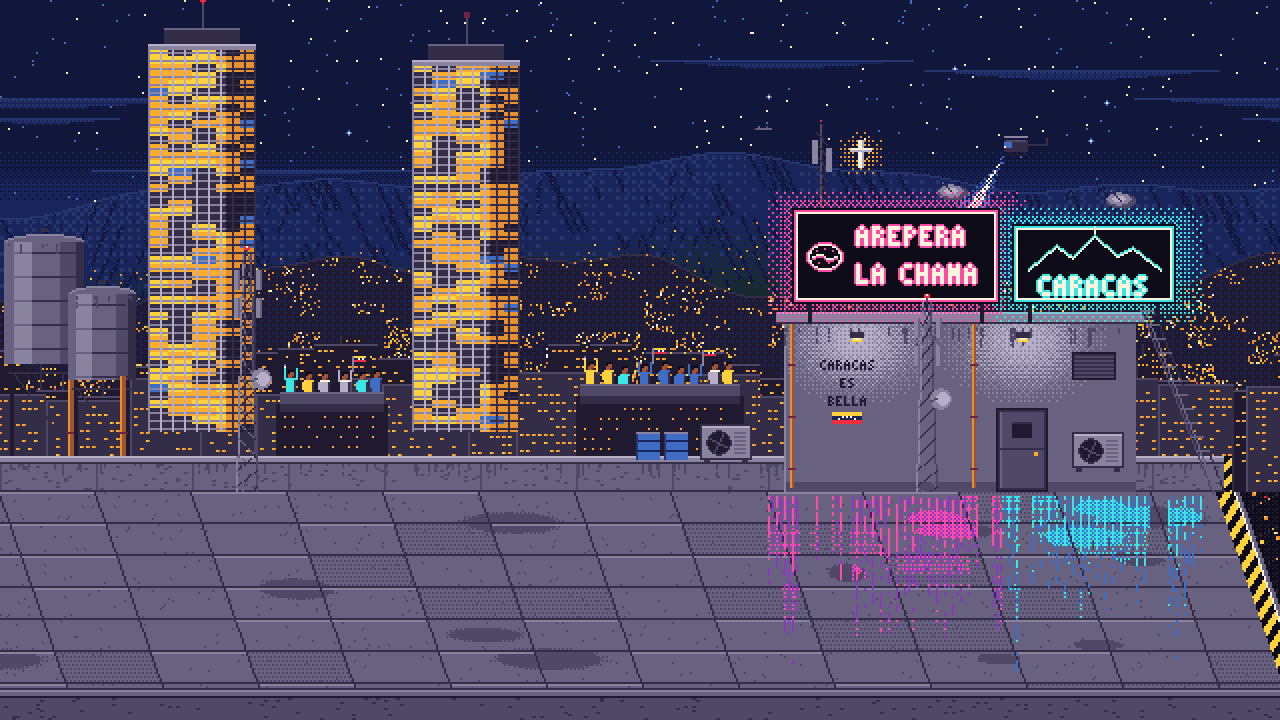
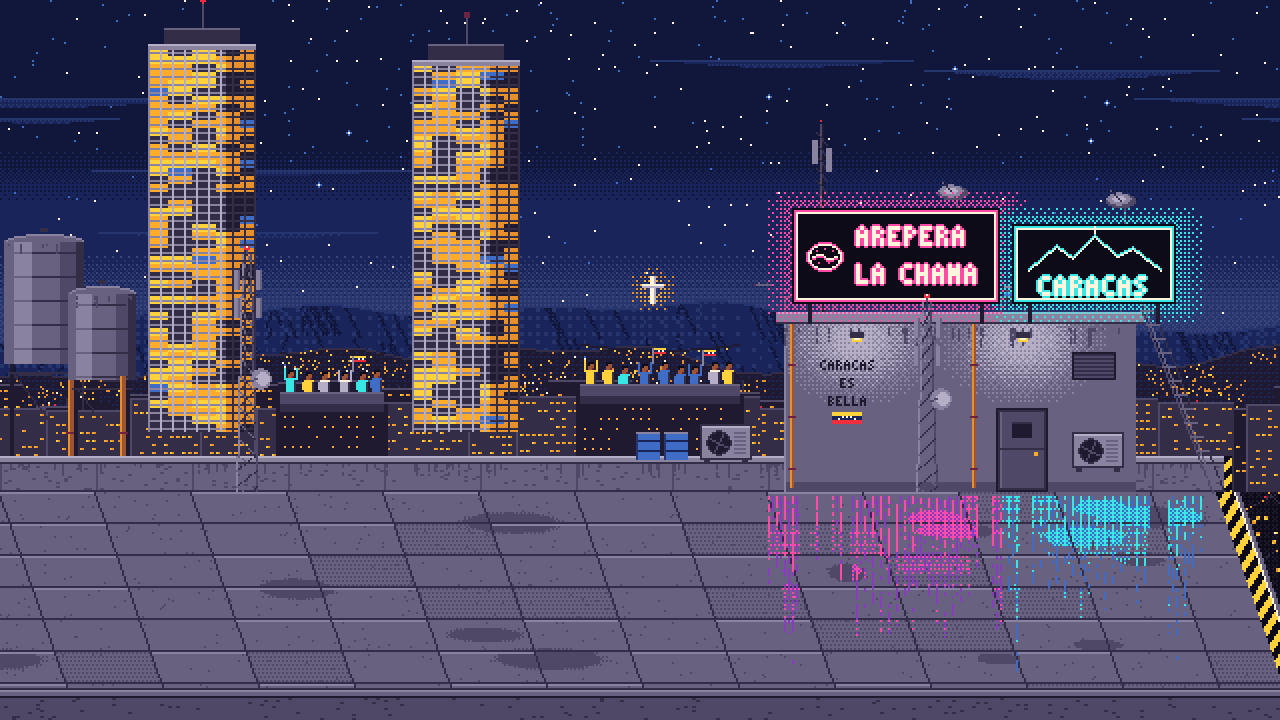
E3b: El Ávila más abajo para el zoom de la pelea y el vacío de 128
- La Cruz cae en la fila 138, entre la segunda torre y la caseta: con el zoom
  de la pelea la cámara empieza en la fila 93 y el marcador tapa 45 más
- Los cerros, el avión y el helicóptero bajan con El Ávila
- borde_vacio.png de 128 x 128 con las avenidas corridas y cortadas: no se
  ve la cuadrícula en un vacío ancho

Claude-Session: https://claude.ai/code/session_01JyeqgYaNCz4cU9RBqiqVkS

diff --git a/src/engine/world/oblique/caracas.ts b/src/engine/world/oblique/caracas.ts
@@ -19,7 +19,12 @@ import type { CtxCerca, PintorCerca } from './fachadas';
 // Lo lejos: El Ávila de noche
 
 /** Dónde está la Cruz en la capa lejos (x, y de la punta del pico). */
-export const CRUZ = { x: 430, y: 36 };
+/**
+ * La Cruz va baja en la capa: con el zoom de la pelea la cámara empieza en la fila 93 y el marcador tapa unas 45 más,
+ * así que la punta de la Cruz cae en la fila 135 de pantalla o más abajo (lejos va en la fila franja.atras - 200). En x
+ * va en el hueco entre la segunda torre y la caseta de los neones.
+ */
+export const CRUZ = { x: 326, y: 110 };
 
 /** El Ávila de noche: la montaña larga casi negra con las laderas de luna, la Cruz encendida, los cerros con lucecitas y la ciudad abajo. */
 export function avilaNoche(pal: Paleta, w: number, h: number, seed: number): Lienzo {
@@ -28,7 +33,7 @@ export function avilaNoche(pal: Paleta, w: number, h: number, seed: number): Lie
   const onda = (x: number, a: number[], f: number[], ph: number[]) => a.reduce((s, ai, i) => s + ai * Math.sin((x / w) * Math.PI * 2 * f[i] + ph[i]), 0);
   // el pico de la Cruz: una campana que también da la vuelta
   const pico = (x: number) => { const d = Math.min(Math.abs(x - CRUZ.x), w - Math.abs(x - CRUZ.x)); return 22 * Math.exp(-((d / 200) ** 2)); };
-  const cresta = (x: number) => Math.round(CRUZ.y + 20 + onda(x, [7, 4, 2], [2, 5, 13], [0.6 - (CRUZ.x / w) * Math.PI * 4, 2.1, 0.4]) - pico(x));
+  const cresta = (x: number) => Math.round(CRUZ.y + 16 + onda(x, [7, 4, 2], [2, 5, 13], [0.6 - (CRUZ.x / w) * Math.PI * 4, 2.1, 0.4]) - pico(x));
   for (let x = 0; x < w; x++) {
     const top = cresta(x), antes = cresta((x - 3 + w) % w);
     // la ladera que sube hacia la derecha mira a la luna (izquierda): más clara
@@ -40,7 +45,7 @@ export function avilaNoche(pal: Paleta, w: number, h: number, seed: number): Lie
       // la montaña de noche es azul casi negra; la luna la toca arriba y abajo el monte se pone verde oscuro
       let c: Color = y === top ? 'cielo' : veta ? 'azul_noche' : bayer(x >> 1, y >> 1) < luna * (1 - t) ? 'cielo' : t > 0.55 && bayer(x, y) < (t - 0.55) * 1.5 ? 'verde_oscuro' : 'azul';
       // el pie del Ávila se pierde en el resplandor de la ciudad
-      if (y > 100 && bayer(x, y) < (y - 100) / 40) c = 'bruma';
+      if (y > 150 && bayer(x, y) < (y - 150) / 24) c = 'bruma';
       L.p(x, y, c);
     }
     // casitas encendidas en las faldas del Ávila, pocas
@@ -56,7 +61,7 @@ export function avilaNoche(pal: Paleta, w: number, h: number, seed: number): Lie
   L.f(CRUZ.x - 5, cy - 10, 11, 2, 'luz'); L.hl(CRUZ.x - 5, cy - 9, 11, 'crema');
   // los cerros de adelante: barrios llenos de lucecitas, en manchones
   for (let x = 0; x < w; x++) {
-    const top = Math.round(92 + onda(x, [10, 6, 3], [3, 7, 17], [1.3, 0.2, 2.6]));
+    const top = Math.round(134 + onda(x, [6, 4, 2], [3, 7, 17], [1.3, 0.2, 2.6]));
     for (let y = top; y < h; y++) {
       L.p(x, y, y === top ? 'asfalto' : bayer(x, y) < 0.2 ? 'azul' : 'sombra');
       const barrio = grain(x >> 4, y >> 3, seed + 11) < 0.55;
@@ -66,7 +71,7 @@ export function avilaNoche(pal: Paleta, w: number, h: number, seed: number): Lie
   // la ciudad abajo: edificios con ventanas prendidas
   const R = rng(seed + 20);
   for (let n = 0; n < 70; n++) {
-    const x = Math.floor(R() * w), bw = 5 + Math.floor(R() * 9), bh = 8 + Math.floor(R() * 22), gy = 150 + Math.floor(R() * 8);
+    const x = Math.floor(R() * w), bw = 5 + Math.floor(R() * 9), bh = 6 + Math.floor(R() * 14), gy = 160 + Math.floor(R() * 6);
     for (let i = 0; i < bw; i++) { const X = (x + i) % w; for (let y = gy - bh; y < h; y++) L.p(X, y, i === 0 ? 'asfalto' : 'sombra'); }
     for (let y = gy - bh + 2; y < h - 1; y += 3) for (let i = 1; i < bw - 1; i += 2) if (R() < 0.5) L.p((x + i) % w, y, R() < 0.7 ? 'oro' : 'amarillo');
   }
@@ -113,7 +118,7 @@ function torrePC(C: Lienzo, x: number, w: number, top: number, base: number, see
 function ciudad(C: Lienzo, x0: number, x1: number, base: number, seed: number) {
   const R = rng(seed + 31);
   // dos bandas: la de atrás, más alta y más oscura, y la de adelante
-  for (const [banda, alto, cuerpo] of [[0, 30, 'sombra'], [1, 18, 'asfalto']] as [number, number, Color][]) {
+  for (const [banda, alto, cuerpo] of [[0, 18, 'sombra'], [1, 10, 'asfalto']] as [number, number, Color][]) {
     for (let x = -30; x < x1 + 30;) {
       const w = 16 + Math.floor(R() * 34), h = alto * 0.5 + Math.floor(R() * alto), top = base - 30 - banda * 4 - Math.round(h);
       if (x + w > x0) {
@@ -383,19 +388,23 @@ export function bordeAlVacio(P: Lienzo, x0: number, D: number, k: number, s: num
   }
 }
 
-/** La ciudad allá abajo, vista desde el borde: manzanas oscuras, calles encendidas y lucecitas. Se repite cada 64 x 64. */
+/**
+ * La ciudad allá abajo, vista desde el borde: manzanas oscuras, avenidas encendidas y lucecitas. Se repite cada 128 x 128,
+ * con las avenidas corridas por tramos y cortadas a ratos, para que no se lea la cuadrícula en un vacío ancho.
+ */
 export function vacioEn(c: number, y: number, s: number): Color {
-  const X = ((c % 64) + 64) % 64, Y = ((y % 64) + 64) % 64;
-  // las avenidas en diagonal, con los faroles, y unas ventanitas sueltas en las manzanas
-  if ((X + Y * 2) % 32 === 0 || (X - Y + 64) % 64 === 0) return grain(X >> 1, Y, s) < 0.3 ? 'oro' : 'asfalto';
+  const X = ((c % 128) + 128) % 128, Y = ((y % 128) + 128) % 128;
+  const off = Math.floor(grain(Y >> 4, 0, s + 5) * 9), off2 = Math.floor(grain(X >> 4, 1, s + 6) * 7);
+  const avenida = (X + Y * 2 + off) % 64 === 0 || (X - Y + 128 + off2) % 128 === 0;
+  if (avenida && grain(X >> 3, Y >> 3, s + 4) > 0.3) return grain(X >> 1, Y, s) < 0.3 ? 'oro' : 'asfalto';
   if (grain(X >> 1, Y >> 1, s + 1) < 0.03) return grain(X, Y, s + 2) < 0.6 ? 'ocre' : 'amarillo';
   return bayer(X, Y) < 0.3 ? 'sombra' : 'tinta';
 }
 
-/** La textura del vacío para el juego: 64 x 64, se repite (para pintar lo que se cae cuando el borde avanza). */
+/** La textura del vacío para el juego: 128 x 128, se repite (para pintar lo que se cae cuando el borde avanza). */
 export function vacioTextura(pal: Paleta, s: number): Lienzo {
-  const L = new Lienzo(64, 64, pal);
-  for (let y = 0; y < 64; y++) for (let x = 0; x < 64; x++) L.p(x, y, vacioEn(x, y, s));
+  const L = new Lienzo(128, 128, pal);
+  for (let y = 0; y < 128; y++) for (let x = 0; x < 128; x++) L.p(x, y, vacioEn(x, y, s));
   return L;
 }
 

diff --git a/src/engine/__tests__/caracas.test.ts b/src/engine/__tests__/caracas.test.ts
@@ -46,12 +46,12 @@ describe('la azotea de Caracas (lote E3b)', () => {
     expect(c.detalle).toMatch(/se llega a \d+ de \d+ celdas/);
   });
 
-  it('El Ávila con la Cruz encendida queda debajo de la franja del marcador (filas 28 a 60)', () => {
+  it('la Cruz del Ávila cae en la fila 135 o más abajo: con el zoom de la pelea se ve debajo del marcador', () => {
     const yLejos = FT - 30 - E.lejos.h;
     let arriba = Infinity;
     for (let y = 0; y < E.lejos.h; y++) for (let x = CRUZ.x - 6; x <= CRUZ.x + 6; x++) if (es(E.lejos.r, x, y, 'luz')) arriba = Math.min(arriba, y);
     expect(arriba).toBeLessThan(Infinity);
-    expect(yLejos + arriba).toBeGreaterThanOrEqual(64);
+    expect(yLejos + arriba).toBeGreaterThanOrEqual(135);
   });
 
   it('el piso mojado refleja los neones debajo de su columna, y nada más', () => {
@@ -74,14 +74,14 @@ describe('la azotea de Caracas (lote E3b)', () => {
       const despues = hex(P, h.x0 + Math.round(0.35 * y) + 6, y)!;
       expect([VENEZUELA_NOCHE.tinta, VENEZUELA_NOCHE.sombra, VENEZUELA_NOCHE.asfalto, VENEZUELA_NOCHE.oro, VENEZUELA_NOCHE.ocre, VENEZUELA_NOCHE.amarillo]).toContain(despues);
     }
-    // el vacío del juego se repite cada 64
-    for (let y = 0; y < 64; y++) for (let x = 0; x < 64; x++) expect(vacioEn(x, y, 41)).toBe(vacioEn(x + 64, y + 128, 41));
+    // el vacío del juego se repite cada 128
+    for (let y = 0; y < 128; y++) for (let x = 0; x < 128; x++) expect(vacioEn(x, y, 41)).toBe(vacioEn(x + 128, y + 256, 41));
   });
 
   it('exporta el filo que se desmorona y el vacío para cuando el borde avanza', () => {
     const r = generarEscenario(RAW);
     const ej = JSON.parse(new TextDecoder().decode(r.archivos.find((a) => a.nombre === 'escenario.json')!.bytes));
-    expect(ej.borde).toMatchObject({ filo: { archivo: 'borde_filo.png', cuadros: 6, h: 360 - FT, ancla: [10, 0] }, vacio: { archivo: 'borde_vacio.png', w: 64, h: 64, repetir: true }, hoy: [618] });
+    expect(ej.borde).toMatchObject({ filo: { archivo: 'borde_filo.png', cuadros: 6, h: 360 - FT, ancla: [10, 0] }, vacio: { archivo: 'borde_vacio.png', w: 128, h: 128, repetir: true }, hoy: [618] });
     const tira = decodePng(r.archivos.find((a) => a.nombre === 'borde_filo.png')!.bytes);
     const w = ej.borde.filo.w;
     expect(tira.w).toBe(w * 6);

diff --git a/src/engine/world/oblique/exportar.ts b/src/engine/world/oblique/exportar.ts
@@ -95,9 +95,9 @@ export function exportarEscena(E: Escena, verificacion?: string, o: OpcionesExpo
     filo.forEach((c, i) => { for (let y = 0; y < alto; y++) tira.data.set(c.r.data.subarray(y * w * 4, (y + 1) * w * 4), (y * tira.w + i * w) * 4); });
     png('borde_filo.png', tira); png('borde_vacio.png', vacioTextura(E.paleta, 41).r);
     borde = {
-      nota: 'Para cuando el borde avanza (la azotea se achica). borde_filo.png: 6 cuadros del canto con la franja, en tira; el 0 entero y del 1 al 5 se desmorona. Va con su esquina de arriba a la izquierda en (x del borde nuevo - 10, franja.atras), corrido como el piso. Lo de la derecha del canto es transparente: ahí va borde_vacio.png, la ciudad allá abajo, que se repite cada 64 x 64.',
+      nota: 'Para cuando el borde avanza (la azotea se achica). borde_filo.png: 6 cuadros del canto con la franja, en tira; el 0 entero y del 1 al 5 se desmorona. Va con su esquina de arriba a la izquierda en (x del borde nuevo - 10, franja.atras), corrido como el piso. Lo de la derecha del canto es transparente: ahí va borde_vacio.png, la ciudad allá abajo, que se repite cada 128 x 128.',
       filo: { archivo: 'borde_filo.png', w, h: alto, cuadros: filo.length, fps: 8, ancla: [10, 0] },
-      vacio: { archivo: 'borde_vacio.png', w: 64, h: 64, repetir: true },
+      vacio: { archivo: 'borde_vacio.png', w: 128, h: 128, repetir: true },
       hoy: bordes.map((h) => h.x0),
     };
   }

diff --git a/src/engine/world/oblique/escena.ts b/src/engine/world/oblique/escena.ts
@@ -838,11 +838,11 @@ function vidaVenezuela(pal: Paleta, L: ObliqueLayout, k: number, seed: number, W
   }
   if (L.vida.includes('avion_lejos')) {
     const c = avion(pal);
-    out.push({ id: 'avion', tipo: 'avion_lejos', capa: 'lejos', x: -10, y: 18, cuadros: c, fps: 2, recorrido: { desde: [-10, 18], hasta: [TROZO, 10], segundos: 80, desfase: 0.3 } });
+    out.push({ id: 'avion', tipo: 'avion_lejos', capa: 'lejos', x: -10, y: 96, cuadros: c, fps: 2, recorrido: { desde: [-10, 96], hasta: [TROZO, 90], segundos: 80, desfase: 0.3 } });
   }
   if (L.vida.includes('helicoptero_reflector') || L.vida.includes('helicoptero')) {
     const c = helicoptero(pal);
-    out.push({ id: 'helicoptero', tipo: 'helicoptero_reflector', capa: 'lejos', x: TROZO, y: 10, cuadros: c, fps: 8, recorrido: { desde: [TROZO, 10], hasta: [-c[0].w, 22], segundos: 60, desfase: 0.62 } });
+    out.push({ id: 'helicoptero', tipo: 'helicoptero_reflector', capa: 'lejos', x: TROZO, y: 86, cuadros: c, fps: 8, recorrido: { desde: [TROZO, 86], hasta: [-c[0].w, 96], segundos: 60, desfase: 0.62 } });
   }
   if (L.vida.includes('publico') && L.paralaje.cerca === 'torres_parque_central') AZOTEAS_PUBLICO.forEach((a, i) => out.push({ id: `publico_${i}`, tipo: 'publico', capa: 'cerca', x: a.x - 4, y: a.techo - 24, cuadros: publicoVida(pal, a, seed + 40 + i), fps: 3 }));
   void D; void k;

diff --git a/docs/olimpico/E3b/ENTREGA.md b/docs/olimpico/E3b/ENTREGA.md
@@ -18,7 +18,7 @@ Fecha: 2026-10-13
 | Vida | <ul><li>Los dos neones (4 cuadros, con parpadeo).</li><li>Las luces rojas de las torres y el tráfico que corre allá abajo pasando el borde.</li><li>El avioncito y el helicóptero con el reflector que barre, en la capa lejos.</li><li>El público, que levanta brazos, banderas y celulares.</li><li>Los fuegos artificiales (partículas).</li></ul> |
 | Luces | Los dos neones, los dos bombillos y las cuatro luces rojas (torres y antenas), que parpadean |
 
-**Lo que pidió el juego para cuando el borde avanza a x 420:** el arte trae un filo que se desmorona por pedazos. Son 6 cuadros del canto con la franja y los trozos de concreto que caen con su polvo. Viene con el vacío para pintar lo que se cae (la ciudad allá abajo, en 64 x 64 que se repite). Van en `borde_filo.png` y `borde_vacio.png`, y `escenario.json` → `borde` dice cómo se ponen.
+**Lo que pidió el juego para cuando el borde avanza a x 420:** el arte trae un filo que se desmorona por pedazos. Son 6 cuadros del canto con la franja y los trozos de concreto que caen con su polvo. Viene con el vacío para pintar lo que se cae (la ciudad allá abajo, en 128 x 128 que se repite). Van en `borde_filo.png` y `borde_vacio.png`, y `escenario.json` → `borde` dice cómo se ponen.
 
 **Motor, todo general:**
 - **El estilo `venezuela_ciudad`:** paleta de noche de 24 colores, ficha con 12 íconos y los letreros en español.
@@ -31,6 +31,10 @@ Fecha: 2026-10-13
 - **Los fuegos artificiales** se reparten a lo ancho de una arena corta (antes caían más allá del mundo).
 - **El incienso** queda solo para Vietnam: la ficha de Caracas no lo pide.
 - **Saigón y la Comuna 13 salen idénticos byte a byte** a como estaban en E3a: comparé los 6 escenarios, archivo por archivo.
+
+**Después de probarlo en el juego** (el juego conectó la azotea a la pelea y pidió dos cosas):
+- **El Ávila va más abajo.** Con el zoom de la pelea, la cámara muestra de la fila 93 a la 360 en 1 contra 1, y el marcador tapa unas 45 filas arriba de eso. La Cruz ahora cae en la fila 138, en el hueco entre la segunda torre y la caseta, donde ningún letrero la tapa. Los cerros con lucecitas y la ciudad del fondo bajaron con ella, y el avión y el helicóptero vuelan a esa altura.
+- **El vacío es de 128 x 128,** con las avenidas corridas por tramos y cortadas a ratos. En un vacío ancho ya no se ve la cuadrícula.
 
 ## Cómo se usa (estudio y kit)
 
@@ -47,7 +51,7 @@ npm run escenario -- docs/ejemplos/nekketsu/escenarios/caracas_azotea.layout.jso
   - El tráfico es de capa `objeto` con orden -1: encima del piso y detrás de todo.
   - El neón que parpadea es una pieza de capa `cerca` encima de su letrero.
 - **Para el borde que avanza:**
-  - Pinta `borde_vacio.png` (repetido) desde el borde nuevo hacia la derecha, corrido como el piso.
+  - Pinta `borde_vacio.png` (128 x 128, repetido) desde el borde nuevo hacia la derecha, corrido como el piso.
   - Pone `borde_filo.png` con su esquina en (x del borde - 10, franja.atras) y lo toca de 0 a 5 a 8 fps.
   - Al final se queda en el cuadro 5.
 - **Luces:** las que traen `parpadeo` prenden y apagan con ese período en segundos. Las de los neones van con su vida.
@@ -58,9 +62,9 @@ npm run escenario -- docs/ejemplos/nekketsu/escenarios/caracas_azotea.layout.jso
   - Pasa las 9 pruebas, sin avisos, con la ficha `venezuela_ciudad` de noche.
   - Caracas de tarde queda pendiente y dice qué horas hay.
   - La arena: se llega a todo el piso, y un muro alto que la parte en dos hace fallar la prueba.
-  - La Cruz del Ávila queda debajo de la franja del marcador (fila 64 o más).
+  - La Cruz del Ávila cae en la fila 135 o más abajo, debajo del marcador con el zoom de la pelea.
   - El reflejo: más de 200 pixeles rosados debajo de AREPERA y más de 150 turquesa debajo de CARACAS, y ninguno debajo del público.
-  - El borde: franja amarilla y negra en el filo, ciudad pasando el canto y el vacío que se repite cada 64.
+  - El borde: franja amarilla y negra en el filo, ciudad pasando el canto y el vacío que se repite cada 128.
   - La exportación del filo (6 cuadros distintos) y del vacío. Un escenario sin borde no la lleva.
   - La vida, pieza por pieza. El público de la vida calza pixel por pixel con el pintado, y sin pedirlo en el layout no sale.
   - Las luces: todas prendidas, las rojas parpadean y los fuegos caen dentro del mundo.

diff --git a/docs/ESCENARIOS.md b/docs/ESCENARIOS.md
@@ -76,7 +76,7 @@ En pantalla no hay inclinación: `px = x`, `py = franja.atras + y - z`. Una caja
 | `objetos.png` + `.json` | Cada caja del layout dibujada a su medida, el toldo, los postes y el portón. Con `x`, `y` y `orden` |
 | `vida.png` | Lo que se mueve, cuadro a cuadro: ropa tendida, cables con viento, palomas (2 cuadros paradas y 2 volando) y motos al fondo |
 | `superficie.png` | Por pixel de la franja: qué suena al pisar (`paso_piedra`, `paso_agua`... más `_0` a `_2`) y si resbala. La leyenda va en `escenario.json` |
-| `borde_filo.png` + `borde_vacio.png` | Solo si hay un borde al vacío (un hueco `vacio` que llega al final del mundo). El filo con la franja amarilla y negra que se desmorona en 6 cuadros, y la ciudad allá abajo en 64 x 64 que se repite. Para cuando el juego hace avanzar el borde. Van en `escenario.json` → `borde` |
+| `borde_filo.png` + `borde_vacio.png` | Solo si hay un borde al vacío (un hueco `vacio` que llega al final del mundo). El filo con la franja amarilla y negra que se desmorona en 6 cuadros, y la ciudad allá abajo en 128 x 128 que se repite. Para cuando el juego hace avanzar el borde. Van en `escenario.json` → `borde` |
 | `colision.json` | La geometría del layout, igual |
 | `luces.json` | Color, radio y latido. De día, las lámparas de los postes van apagadas |
 | `particulas.json` | Humo de incienso, pétalos, goteras, ondas en el agua. Las que traen `fx` usan el catálogo de efectos del kit |
@@ -218,7 +218,7 @@ Todas bloquean: si una falla, el escenario no sale.
 - **El estilo `venezuela_ciudad`** (`pais: "venezuela"`, lote E3b): Caracas de noche. Hoy pinta la azotea de Parque Central (`paralaje.cerca: "torres_parque_central"`, `paralaje.lejos: "avila_noche"`).
   - **Solo de noche** (`venezuelaPaleta.ts`): el cielo y El Ávila azul casi negro, el concreto gris violeta, las ventanas y los cerros en amarillo, y los neones rosado y turquesa (`salmon` y `menta`). `canal` es el violeta del reflejo del neón. Un layout de Venezuela a otra hora queda `pendiente` y lo dice: "todavía no tiene arte de tarde (hoy pinta: noche)".
   - **El cielo de noche** (para cualquier estilo que tenga noche): estrellas, unas grandes en cruz, nubes finas tocadas por la luna y el resplandor de la ciudad abajo.
-  - **Lejos:** El Ávila, la montaña larga azul con quebradas, la luna en las laderas y la Cruz encendida en el pico (debajo de la franja del marcador). Delante, los cerros llenos de lucecitas en manchones y la ciudad abajo.
+  - **Lejos:** El Ávila, la montaña larga azul con quebradas, la luna en las laderas y la Cruz encendida en el pico. Va bajo en la capa: con el zoom de la pelea la cámara empieza en la fila 93 y el marcador tapa unas 45 más, así que la Cruz cae en la fila 135 o más abajo, en el hueco entre la segunda torre y la caseta. El avión y el helicóptero vuelan a esa altura. Delante, los cerros llenos de lucecitas en manchones y la ciudad abajo.
   - **Cerca:** `torres_parque_central` es el fondo: la ciudad encendida, las dos torres de concreto claro con sus ventanas y la luz roja, el público en dos azoteas vecinas (con banderas y celulares), los tanques de agua y el murito del borde. `letreros_neon` suma la caseta de la escalera con la puerta de lámina, los bombillos, CARACAS ES BELLA, la escalerita al techo, las antenas, las parabólicas y los dos neones con su halo: AREPERA LA CHAMA con la arepa y CARACAS con El Ávila y la Cruz.
   - **El piso:** la `baldosa` de este lugar son losas grandes de concreto (48 x 16) con charquitos ovalados. De noche, el piso mojado refleja los neones en rayas debajo de su columna, más fuertes en los charcos (`reflejoNeon`, solo los neones: una camisa turquesa no se refleja).
   - **El borde sin baranda:** un hueco `vacio` que llega al final del mundo es el borde del edificio. Lleva la franja amarilla y negra en el filo y, pasando el canto, la ciudad muy abajo con sus avenidas. Para cuando el borde avanza, sale `borde_filo.png` y `borde_vacio.png`.

diff --git a/docs/olimpico/E3b/verificacion.md b/docs/olimpico/E3b/verificacion.md
@@ -5,11 +5,11 @@ Las 9 pruebas pasan.
 | # | Prueba | Resultado | Qué se midió |
 |---|---|---|---|
 | 1 | Costuras | pasa | 3 trozos de 1280 px revisados en sus bordes: 0 pixeles distintos |
-| 2 | Paralaje | pasa | cielo: la vuelta cambia 77 filas (un paso normal, hasta 79). Lejos: 43 (hasta 69) |
+| 2 | Paralaje | pasa | cielo: la vuelta cambia 77 filas (un paso normal, hasta 79). Lejos: 18 (hasta 30) |
 | 3 | Piso | pasa | 640 x 98 px de franja: 0 transparentes |
 | 4 | Apoyo | pasa | 0 cajas, 2 postes y 5 objetos del layout, todos sobre piso o plataforma |
 | 5 | Colisión | pasa | colision.json es igual al layout en 10 listas |
 | 6 | Camino | pasa | arena sin salida ni meta: se llega a todo el piso desde x 0, con salto de 36, escalón de 6 y salto largo de 84 |
 | 7 | Legibilidad | pasa | 40 siluetas (cada 64 px, 4 carriles, 1 contorno): contraste mediano 3.1:1, el peor 2.1:1 en x 600, y 20 (mínimo 2:1) |
-| 8 | Paleta | pasa | 23 colores usados de los 24 de la ficha |
+| 8 | Paleta | pasa | 22 colores usados de los 24 de la ficha |
 | 9 | Peso | pasa | en la pantalla más cargada: 6 capas (máx 8), 8 luces encendidas (máx 12), 9 piezas animadas (máx 16), 2 objetos (máx 24) |
